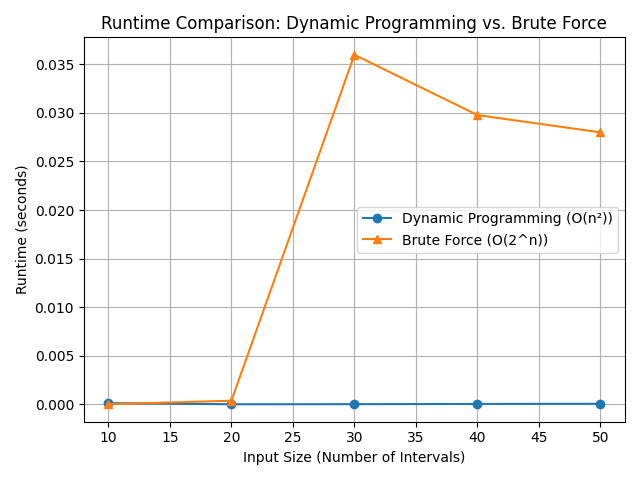
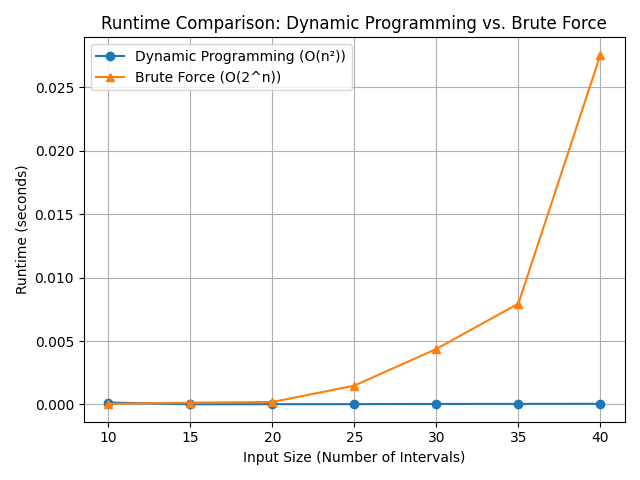
latest version

diff --git a/WIS.py b/WIS.py
@@ -1,5 +1,4 @@
 import random
-import bisect
 import time
 import tracemalloc
 import matplotlib.pyplot as plt
@@ -24,8 +23,7 @@ def generate_intervals(n, max_time=1000, max_weight=100):
 
 def find_compatible_previous(intervals):    
     # Time complexity: O(n^2)
-    # Find the index of the last compatible interval for each interval
-    # Compatible means the previous interval's end time is <= current interval's start time
+    # Find the index of the last compatible interval for each interval. Compatible meaning the previous interval's end time is <= current interval's start time
     compatible = []
     for j in range(len(intervals)):
         last_compatible = -1  # no compatible interval
@@ -62,10 +60,6 @@ def solve_weighted_intervals(intervals):
 
 
 def brute_force_intervals(intervals, ind, last_end):
-    # Brute force recursive solution for weighted interval scheduling
-    # ind: current interval index
-    # last_end: end time of the last selected interval
-    # Returns maximum weight achievable from index ind onward
     if ind == len(intervals):
         return 0  # Base case: no more intervals
 
@@ -97,47 +91,13 @@ def reconstruct_optimal_solution(intervals, compatible, optimal_values):
     return solution
 
 
-def visualize_optimal_intervals(intervals, optimal_intervals):
-    # Visualize all intervals and highlight the optimal ones
-    fig, ax = plt.subplots(figsize=(10, len(intervals) * 0.4))
-
-    # Plot each interval as a horizontal bar
-    for i, interval in enumerate(intervals):
-        # Determine if this interval is in the optimal solution
-        is_optimal = interval in optimal_intervals
-        color = 'green' if is_optimal else 'gray'
-        alpha = 1.0 if is_optimal else 0.3
-        
-        # Draw the interval as a horizontal bar
-        ax.barh(i, interval.end - interval.start, left=interval.start, height=0.4, color=color, alpha=alpha)
-        # Annotate the weight in the middle of the bar
-        ax.text((interval.start + interval.end) / 2, i, f'w={interval.weight}', 
-                ha='center', va='center', color='white' if is_optimal else 'black', fontsize=8)
-
-    # Set labels and title
-    ax.set_xlabel('Time')
-    ax.set_ylabel('Intervals')
-    ax.set_yticks(range(len(intervals)))
-    ax.set_yticklabels([f'[{interval.start}, {interval.end}]' for interval in intervals])
-    ax.set_title('Weighted Interval Scheduling: Optimal Intervals')
-    
-    # Adjust layout and save the plot
-    plt.tight_layout()
-    plt.savefig('optimal_intervals_plot.png')
-    plt.close()
-
-
-# -------------------------------
-#  Experimental Analysis
-# -------------------------------
-
 def performance_analysis(dp_sizes, compare_sizes):
     dp_runtimes = []
     compare_dp_runtimes = []
     brute_runtimes = []
     memories = []
 
-    # Dynamic programming performance (large sizes for standalone plot)
+    # Dynamic programming performance
     for n in dp_sizes:
         intervals = generate_intervals(n)
         tracemalloc.start()
@@ -163,7 +123,7 @@ def performance_analysis(dp_sizes, compare_sizes):
 
         # Brute force
         intervals = generate_intervals(n)
-        intervals.sort(key=lambda x: x.end)  # Sort for consistency
+        intervals.sort(key=lambda x: x.end)
         start_time = time.perf_counter()
         _ = brute_force_intervals(intervals, 0, 0)
         end_time = time.perf_counter()
@@ -175,7 +135,7 @@ def performance_analysis(dp_sizes, compare_sizes):
 def plot_results(dp_sizes, compare_sizes, dp_runtimes, compare_dp_runtimes, brute_runtimes, memories):
     # Plot 1: Dynamic programming runtime (large sizes)
     fig1, ax1 = plt.subplots()
-    ax1.plot(dp_sizes, dp_runtimes, marker='o', color='tab:blue', label='Dynamic Programming Runtime')
+    ax1.plot(dp_sizes, dp_runtimes, marker='o', color='tab:blue', label='Dynamic Programming Runtime (O(n²))')
     ax1.set_xlabel('Input Size (Number of Intervals)')
     ax1.set_ylabel('Runtime (seconds)')
     ax1.set_title('Dynamic Programming Runtime (O(n²))')
@@ -210,6 +170,35 @@ def plot_results(dp_sizes, compare_sizes, dp_runtimes, compare_dp_runtimes, brut
     plt.savefig("runtime_comparison_plot.png")
     plt.close()
 
+def visualize_optimal_intervals(intervals, optimal_intervals):
+    # Visualize all intervals and highlight the optimal ones
+    fig, ax = plt.subplots(figsize=(10, len(intervals) * 0.4))
+
+    # Plot each interval as a horizontal bar
+    for i, interval in enumerate(intervals):
+        # Determine if this interval is in the optimal solution
+        is_optimal = interval in optimal_intervals
+        color = 'green' if is_optimal else 'gray'
+        alpha = 1.0 if is_optimal else 0.3
+        
+        # Draw the interval as a horizontal bar
+        ax.barh(i, interval.end - interval.start, left=interval.start, height=0.4, color=color, alpha=alpha)
+        # Annotate the weight in the middle of the bar
+        ax.text((interval.start + interval.end) / 2, i, f'w={interval.weight}', 
+                ha='center', va='center', color='white' if is_optimal else 'black', fontsize=8)
+
+    # Set labels and title
+    ax.set_xlabel('Time')
+    ax.set_ylabel('Intervals')
+    ax.set_yticks(range(len(intervals)))
+    ax.set_yticklabels([f'[{interval.start}, {interval.end}]' for interval in intervals])
+    ax.set_title('Weighted Interval Scheduling: Optimal Intervals')
+    
+    # Adjust layout and save the plot
+    plt.tight_layout()
+    plt.savefig('optimal_intervals_plot.png')
+    plt.close()
+
 
 # ----------------------------------
 #  Run algorithm and visualizations
@@ -217,13 +206,13 @@ def plot_results(dp_sizes, compare_sizes, dp_runtimes, compare_dp_runtimes, brut
 
 if __name__ == "__main__":
     # Performance analysis
-    dp_sizes = [100, 200, 500, 1000, 2000, 3000, 4000, 5000, 6000, 8000]
-    compare_sizes = [10, 20, 30, 40, 50]  # Sizes for DP vs. brute force comparison
+    dp_sizes = [100, 1000, 2000, 4000, 6000, 8000]
+    compare_sizes = [10, 15, 20, 25, 30, 35, 40]  # Sizes for DP vs. brute force comparison
     dp_runtimes, compare_dp_runtimes, brute_runtimes, memories = performance_analysis(dp_sizes, compare_sizes)
     plot_results(dp_sizes, compare_sizes, dp_runtimes, compare_dp_runtimes, brute_runtimes, memories)
 
-    # Visualize optimal intervals for a small set (25 intervals)
-    intervals = generate_intervals(25, max_time=100, max_weight=50)
+    # Visualize optimal intervals for a small set (15 intervals)
+    intervals = generate_intervals(15, max_time=100, max_weight=50)
     optimal_values, compatible = solve_weighted_intervals(intervals)
     optimal_intervals = reconstruct_optimal_solution(intervals, compatible, optimal_values)
     visualize_optimal_intervals(intervals, optimal_intervals)
